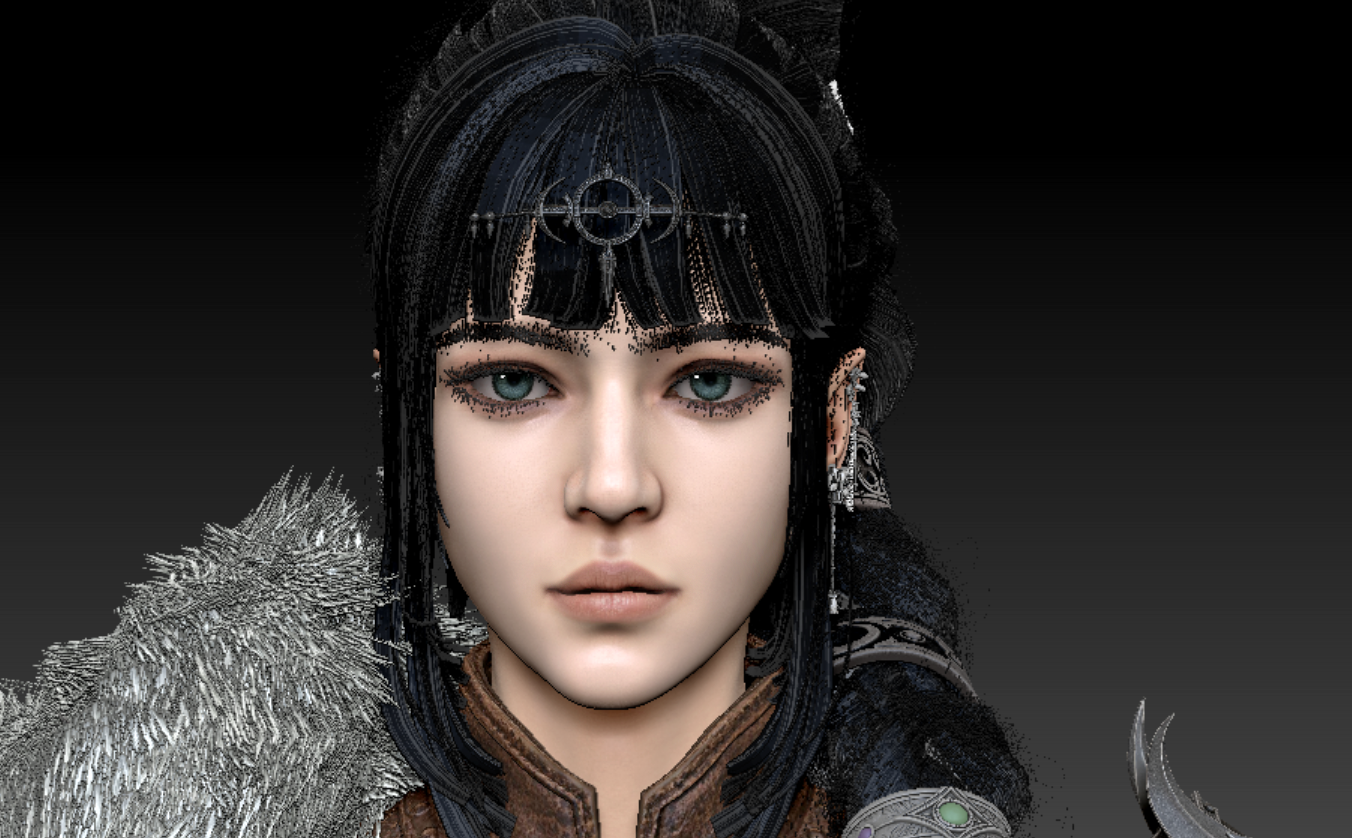
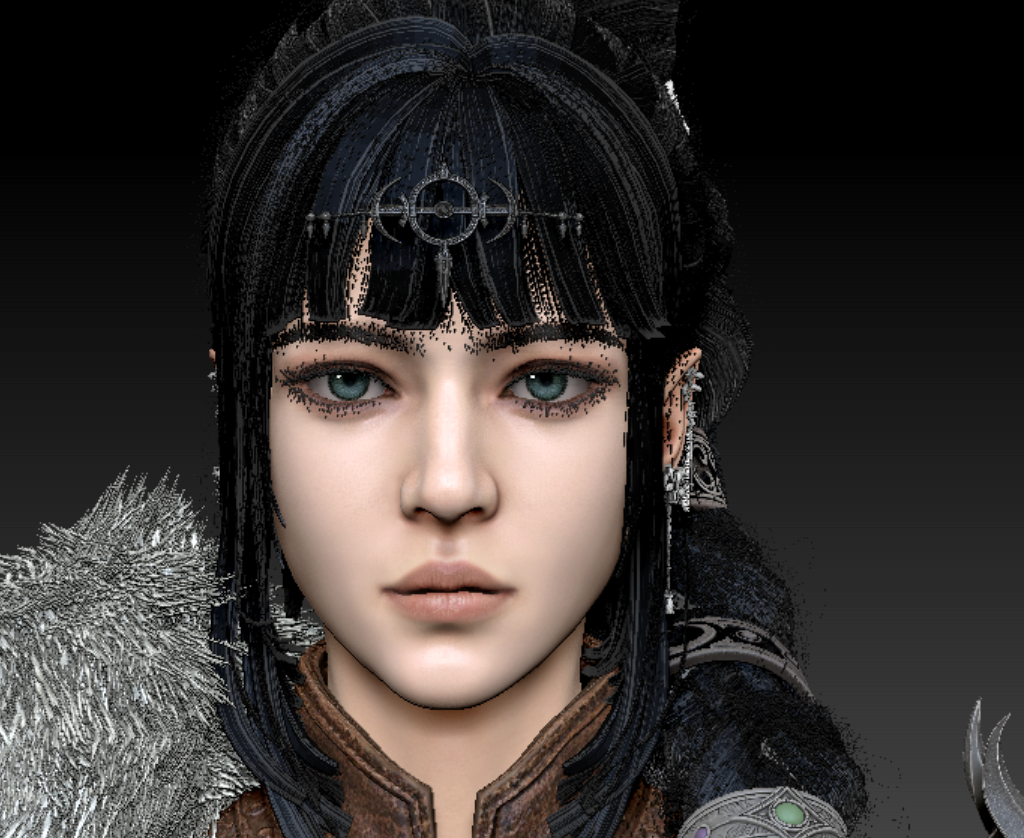
1

diff --git a/blog-shadowheart.html b/blog-shadowheart.html
@@ -475,9 +475,15 @@
                         <p style="color: var(--text-secondary); font-size: 0.9rem; margin-top: 0.8rem;">三个版本的脸部对比图。After版本的脸可能是光点变少了、脸上没了光晕，也可能是外轮廓加得太里面了，所以没有before版本的那么含情脉脉。Now版本的脸是微调后的，脸会更瘦更像zbrush里的脸型，换了一个不脏的妆容。</p>
                     </div>
 
-                                        <div style="text-align: center; margin: 1.5rem 0;">
-                        <img src="image/YINGXIN/20.png" alt="影心ZBrush调整眼睛样式与面部 2026-08-24" style="max-width: 70%; height: auto; border-radius: 12px; box-shadow: 0 4px 20px rgba(139, 91, 122, 0.15); border: 1px solid rgba(139, 91, 122, 0.12);" oncontextmenu="return false;" draggable="false">
-                        <p style="color: var(--text-secondary); font-size: 0.9rem; margin-top: 0.8rem;">渲染前在ZBrush中调整眼睛样式与脸部的过程截图</p>
+                                        <div style="display: flex; gap: 1.5rem; align-items: flex-start; justify-content: center; flex-wrap: wrap; margin: 1.5rem 0;">
+                        <div style="text-align: center;">
+                            <img src="image/YINGXIN/20.png" alt="影心ZBrush调整眼睛样式与面部 2026-08-24" style="max-width: 260px; width: 100%; height: auto; border-radius: 12px; box-shadow: 0 4px 20px rgba(139, 91, 122, 0.15); border: 1px solid rgba(139, 91, 122, 0.12);" oncontextmenu="return false;" draggable="false">
+                            <p style="color: var(--text-secondary); font-size: 0.9rem; margin-top: 0.8rem;">渲染前在ZBrush中调整眼睛样式与脸部的过程截图1</p>
+                        </div>
+                        <div style="text-align: center;">
+                            <img src="image/YINGXIN/23.png" alt="影心ZBrush调整过程截图 2026-08-24" style="max-width: 260px; width: 100%; height: auto; border-radius: 12px; box-shadow: 0 4px 20px rgba(139, 91, 122, 0.15); border: 1px solid rgba(139, 91, 122, 0.12);" oncontextmenu="return false;" draggable="false">
+                            <p style="color: var(--text-secondary); font-size: 0.9rem; margin-top: 0.8rem;">过程截图2(口红需要再素一点)</p>
+                        </div>
                     </div>
 
                 </div>
